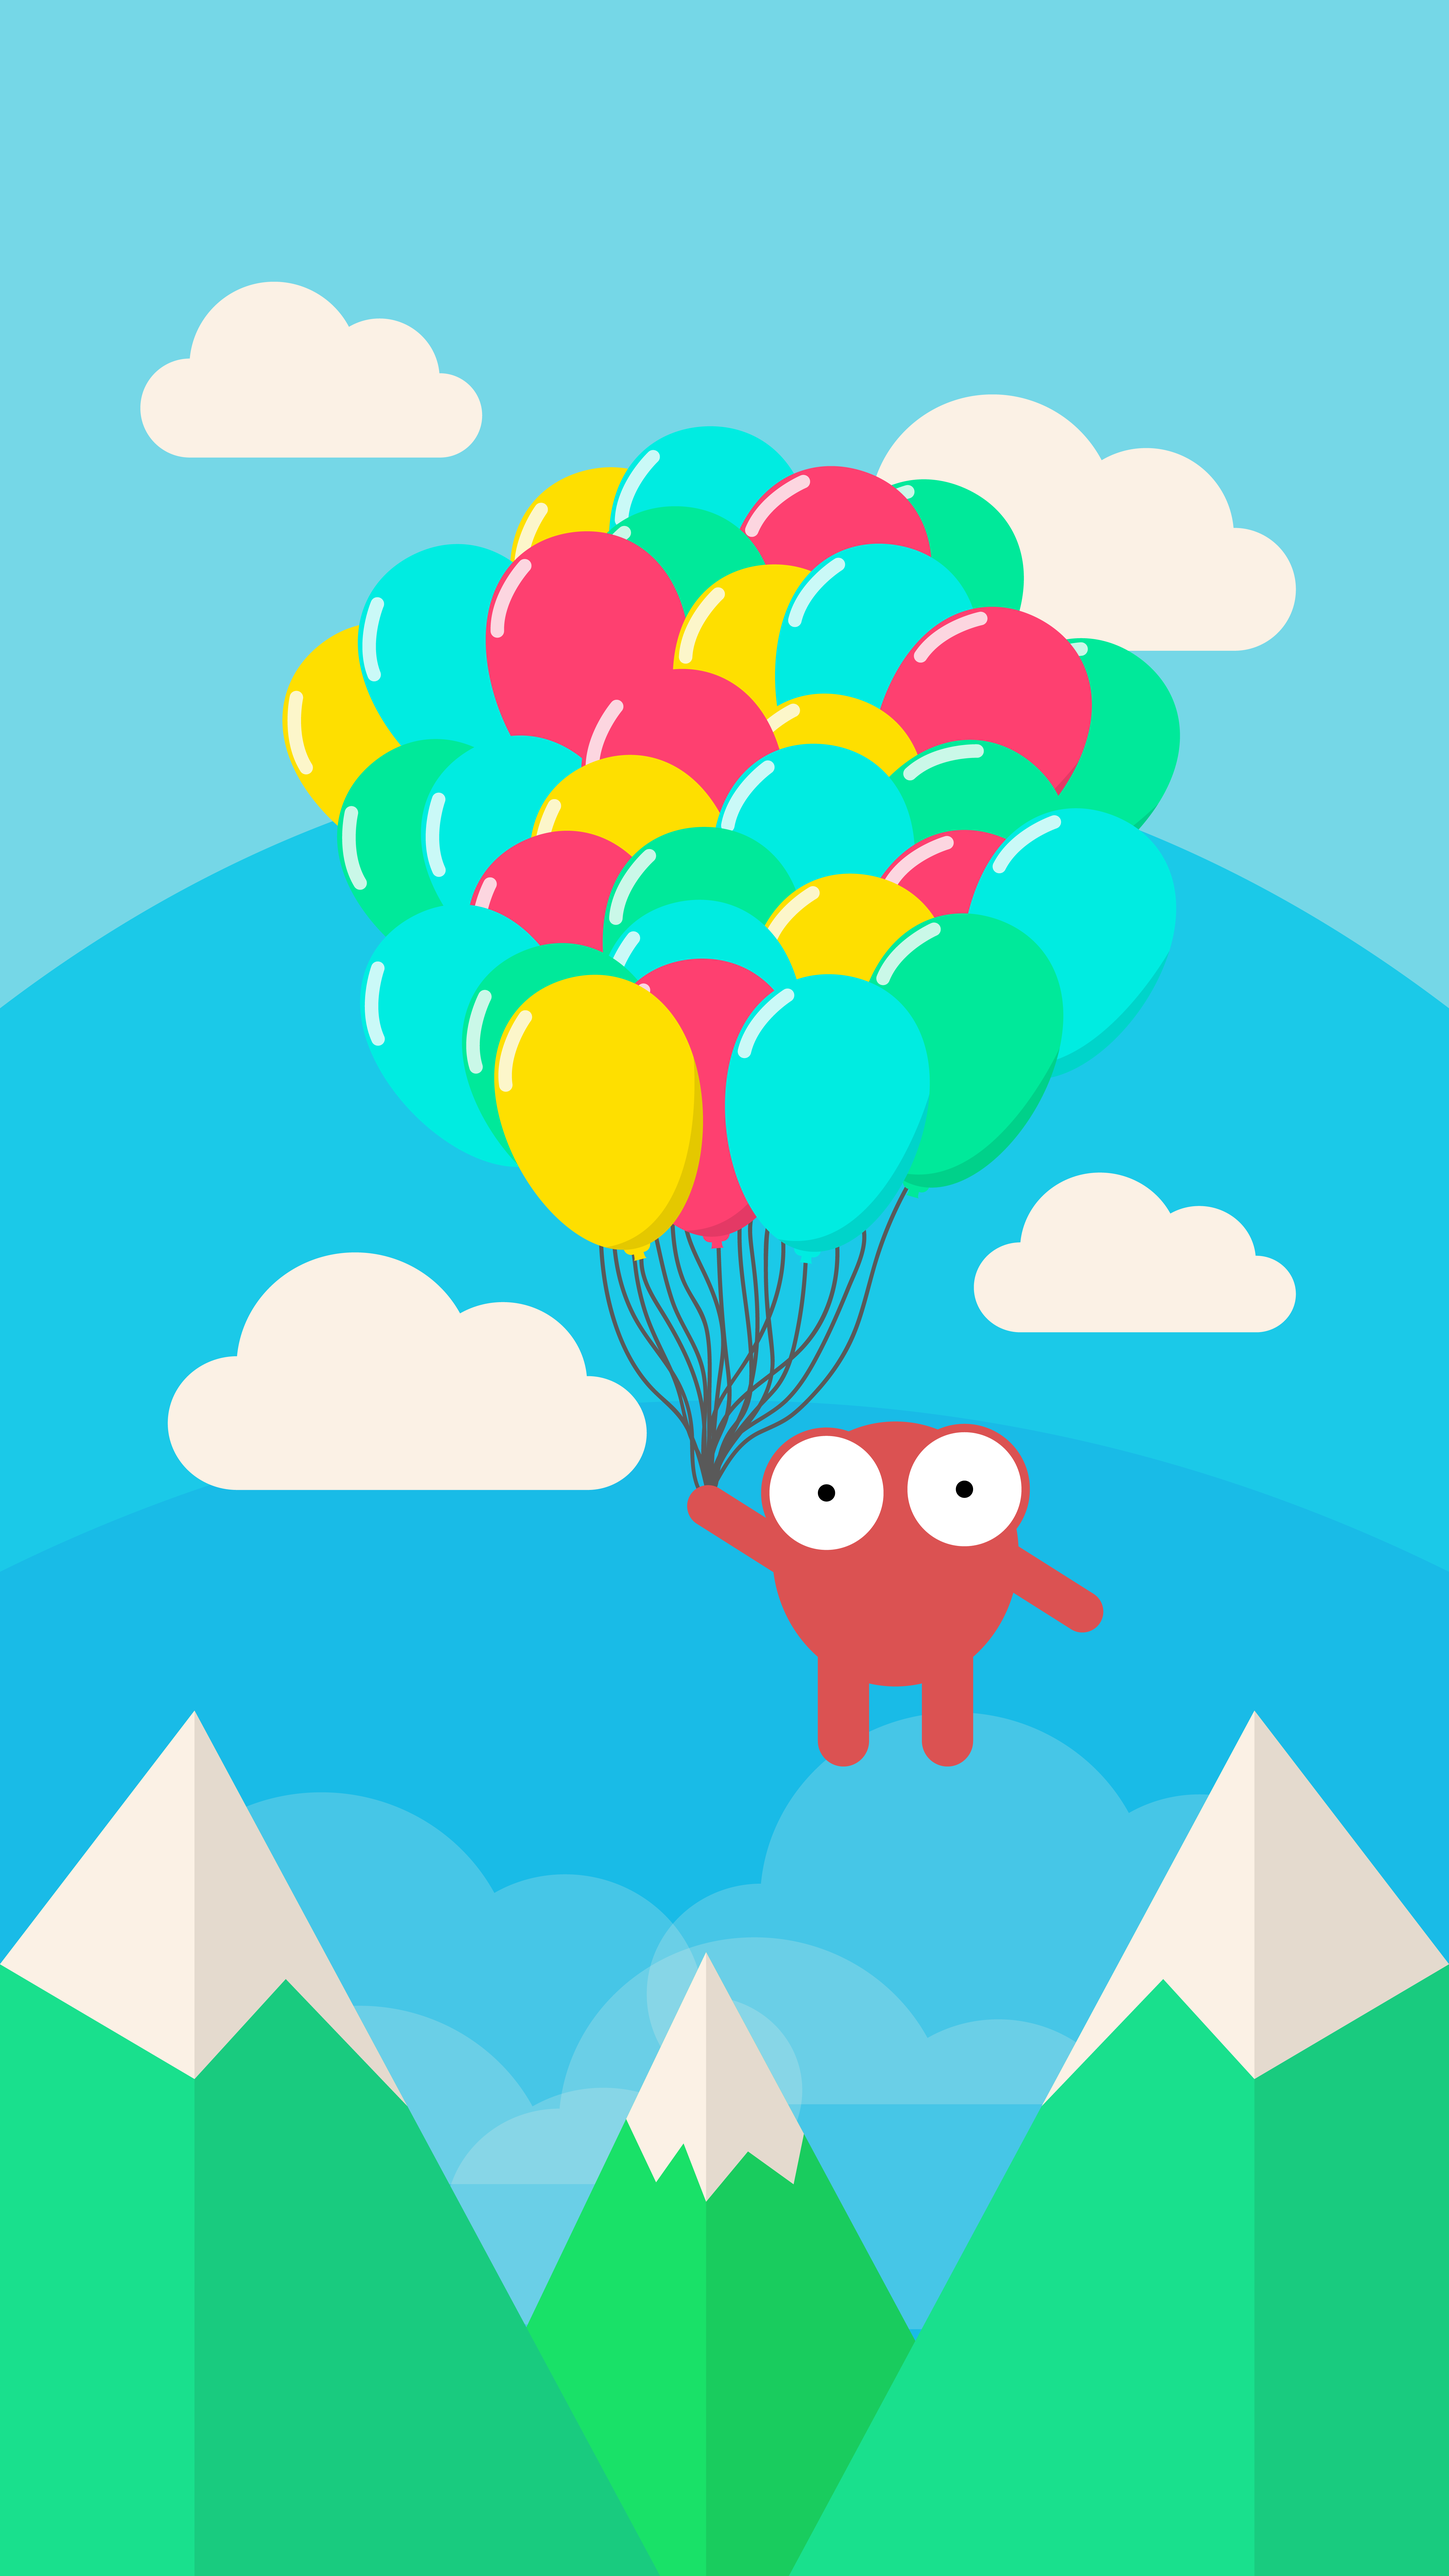
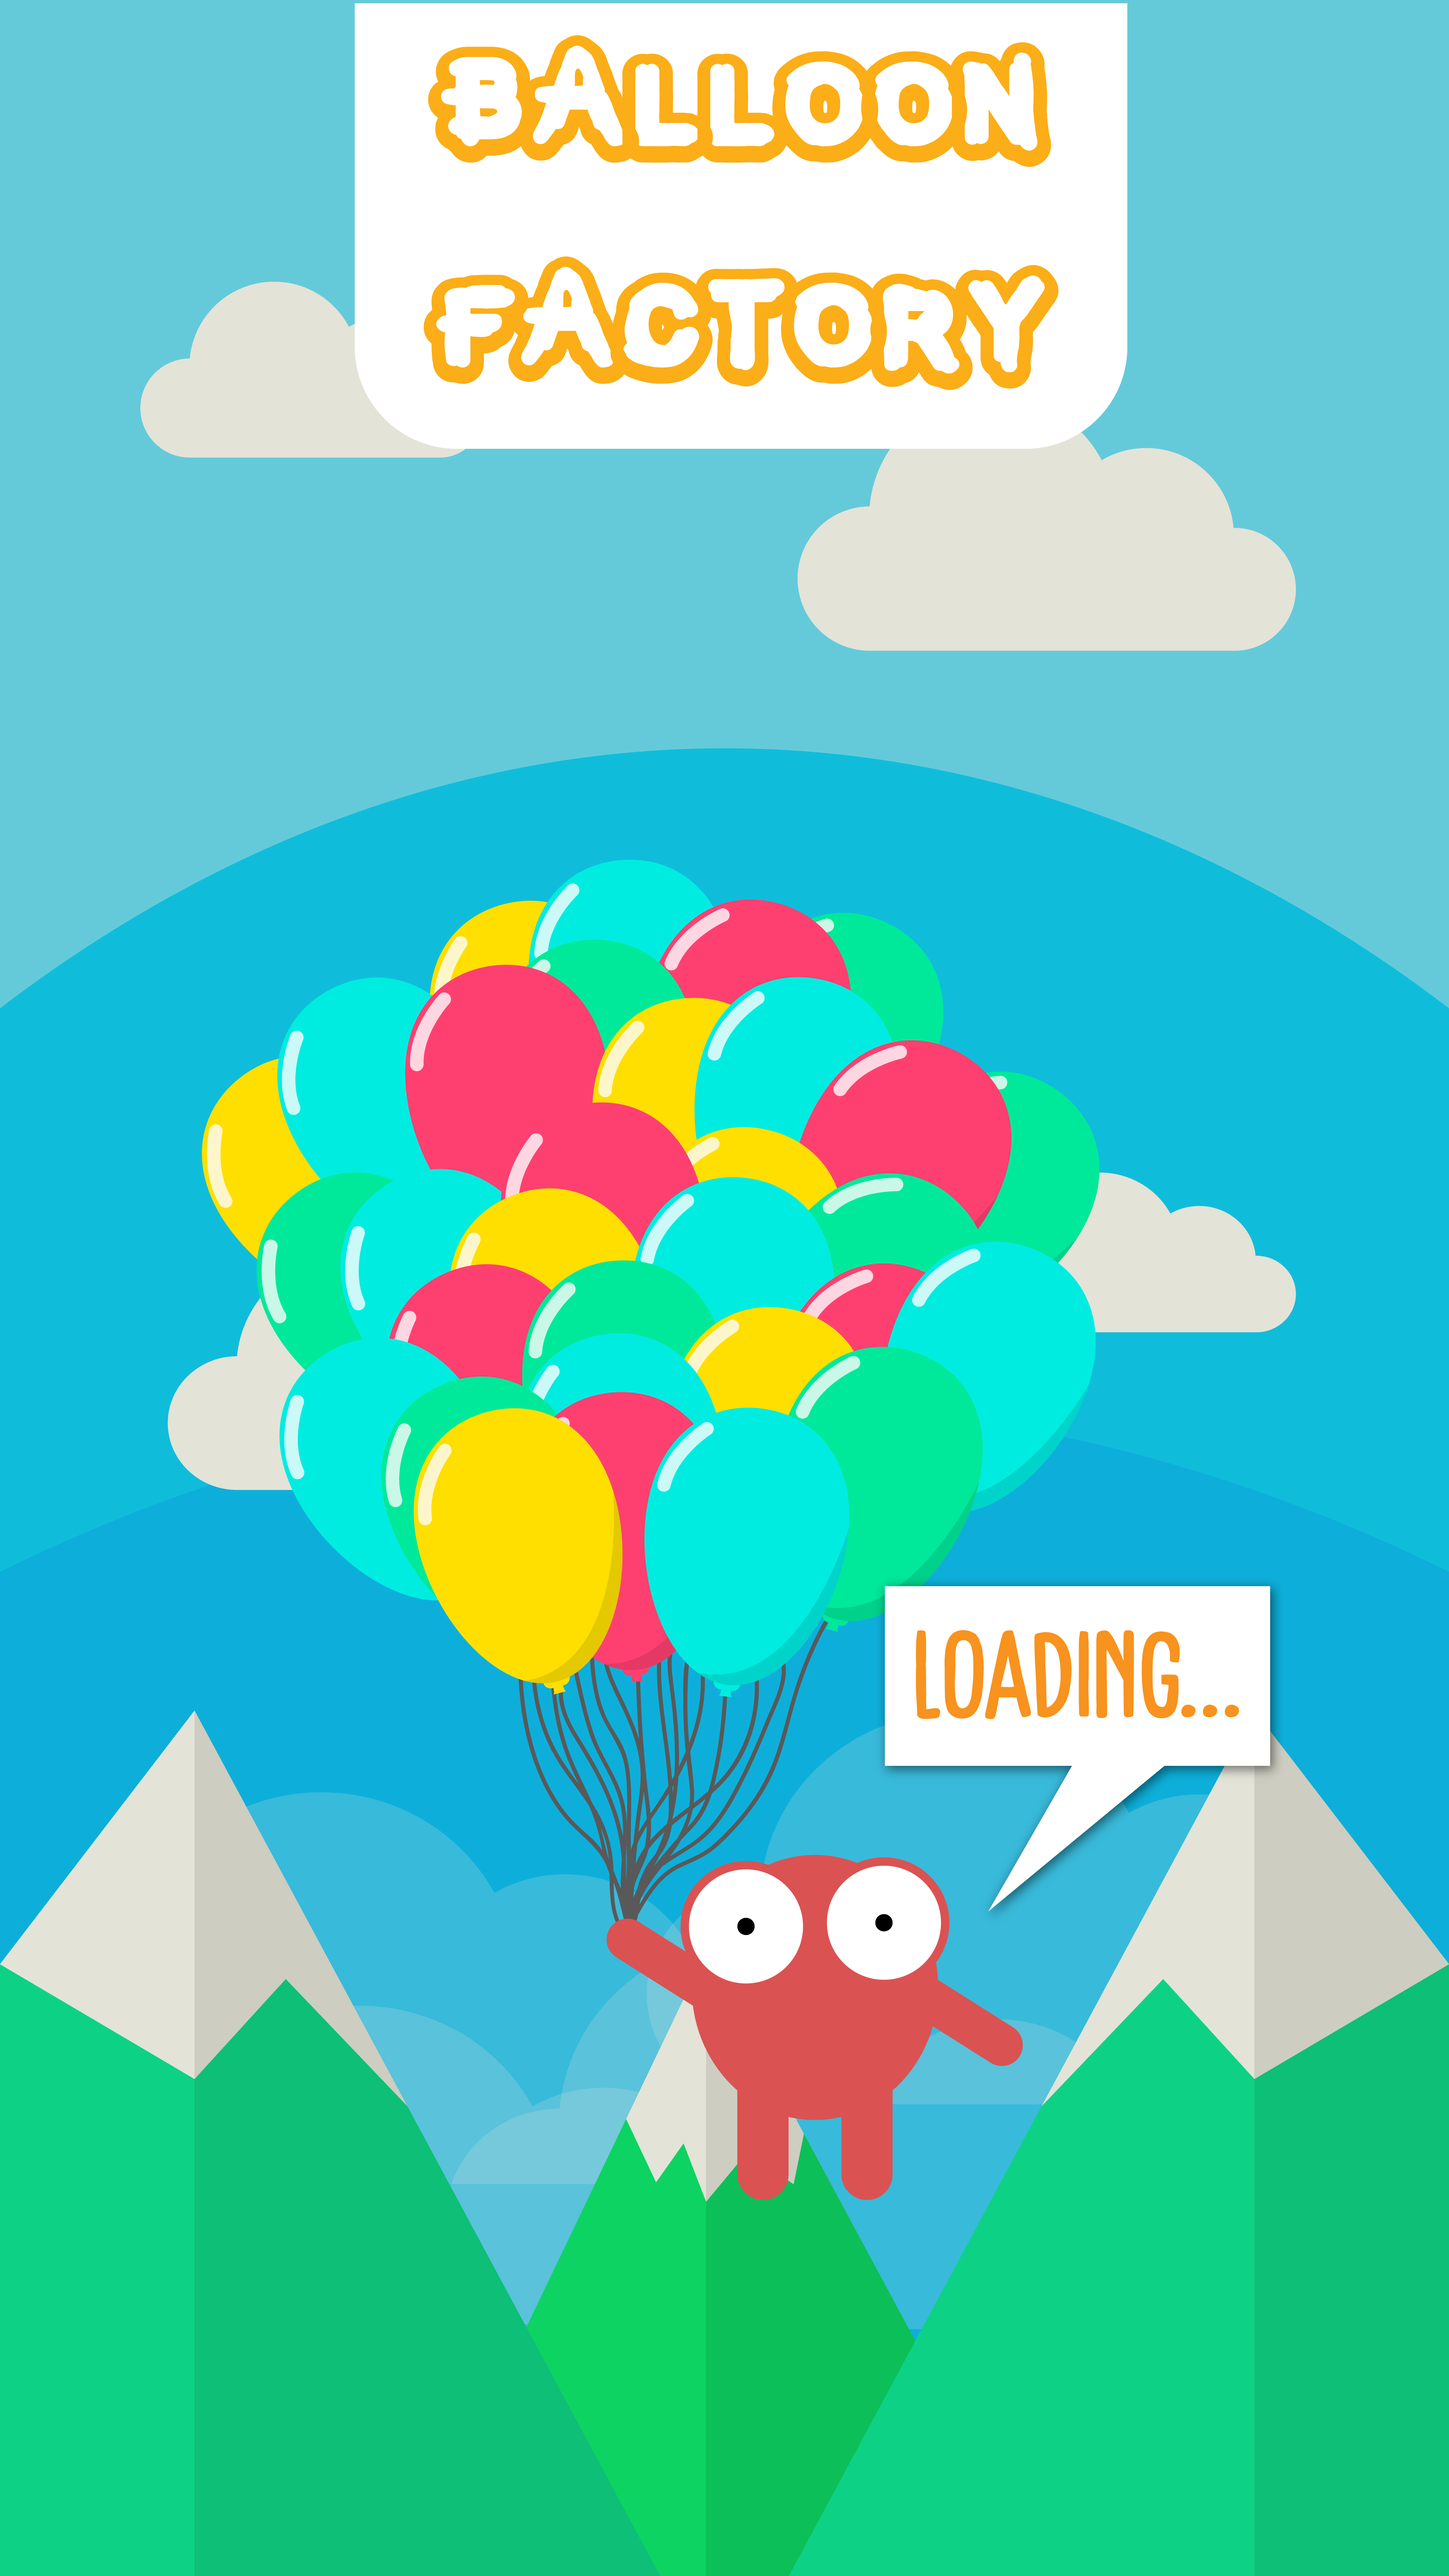
ADD new style and SIMPLE logic

diff --git a/src/scenes/GameScene.js b/src/scenes/GameScene.js
@@ -13,60 +13,35 @@ export default class GameScene extends Phaser.Scene {
         // Variables
         let balloons = 0;
         let money = 0;
-        let airCount = 0;
         let airClick = 1;
-        let balloonValue = 10;
-        let airCountProgress = 0;
-
-        // Background
-        this.background = this.add.graphics()
-            .fillStyle(0xc1f4ff, 1)
-            .fillRect(0, 0, 360, 470);
-        // Floor
-        const floor = this.add.graphics()
-            .fillStyle(0x333333, 1)
-            .fillRect(this.width / 2 - 180 , this.height / 2 + 150, 360, 170);
 
         // Display Loaded Assets
+        this.background = this.add.image(this.width / 2, this.height / 2, 'game-scene-background').setScale(0.08);
         this.balloonIcon = this.add.image(this.width / 2 - 155, this.height / 2 - 282, 'balloon').setScale(0.04);
         this.upgradesButton = this.add.image(this.width / 2 - 140, this.height / 2 + 290, 'upgrades-button').setScale(0.05);
         this.shopsButton = this.add.image(this.width / 2 -90, this.height / 2 + 290, 'shops-button').setScale(0.07);
 
-        // Air Count Box-Progress
-        // const airCountBox = this.add.graphics()
-        //     .fillStyle(0x222222, 1)
-        //     .fillRect(this.width / 2 - 160, this.height / 2 + 250, 320, 10);
-        // const airCountBar = this.add.graphics();
-
         // Air Button Animation
+        
         this.anims.create({
             key: 'pump-air',
             frameRate: 48,
             frames: this.anims.generateFrameNames('air-button', {start: 1, end: 20})
         });
+
+        const positions = [this.width / 2, this.width / 2 - 100, this.width / 2 + 100];
         
         // Air Button Logic
-        this.airButton = this.add.sprite(this.width/2, this.height/1.2, 'air-button', 0)
+        this.backgroundClick = this.add.image(this.width / 2, this.height / 2, 'background-click')
+            .setScale(0.08)
             .setInteractive()
             .on('pointerdown', () => {
-                this.airButton.play('pump-air');
-                airCountProgress += 320 / balloonValue;
-                if (airCount == balloonValue) {
-                    airCount -= balloonValue;
-                    this.updateBalloonCount(++balloons);
-                }
-                if (airCountProgress == 320 + 320 / balloonValue) {
-                    airCountProgress -= airCountProgress - 320 / balloonValue;
-                    // airCountBar.clear();
-                }
-                // airCountBar.fillStyle(0xffffff, 1);
-                // airCountBar.fillRect(this.width / 2 - 160, this.height / 2 + 250, airCountProgress, 10);
-                airCount += airClick;
+                this.updateBalloonCount(balloons += airClick);
         });
 
         this.upgradesButton.setInteractive()
             .on('pointerup', () => {
-                this.scene.start('Upgrades');
+                this.scene.switch('Upgrades');
         });
 
         this.createBalloonsTextCount();

diff --git a/src/scenes/PreloaderScene.js b/src/scenes/PreloaderScene.js
@@ -9,60 +9,33 @@ export default class PreloaderScene extends Phaser.Scene {
         const width = this.cameras.main.width;
         const height = this.cameras.main.height;
 
-        // Display Progress Bar
-        const progressBar = this.add.graphics();
+        this.add.image(width / 2, height / 2, 'background').setScale(0.08);
+
         const progressBox = this.add.graphics()
             .fillStyle(0x222222, 0.8)
-            .fillRect(width / 2 - 160, height / 1.8, 320, 30);
+            .fillRect(width / 2 - 160, height / 2 + 275, 320, 10);
 
-        // Loading Text
-        const loadingText = this.make.text({
-            x: width / 2,
-            y: height / 2,
-            text: 'Loading...',
-            style: {
-                font: '20px monospace',
-                fill: '#ffffff'
-            }
-        }).setOrigin(0.5, 0.5);
-
-        // Percent Text
-        const percentText = this.make.text({
-            x: width / 2,
-            y: height / 2 + 50,
-            text: '0%',
-            style: {
-                font: '18px monospace',
-                fill: '#ffffff'
-            }
-        }).setOrigin(0.5, 0.5);
-
+        // Display Progress Bar
+        const progressBar = this.add.graphics();
         // Update Progress Bar
         this.load.on('progress', (value) => {
-            percentText.setText(parseInt(value * 100) + '%');
             progressBar.clear()
-                       .fillStyle(0xffffff, 1)
-                       .fillRect(width / 2 - 160, height / 1.8, 320 * value, 30);
-        });
-
-        // Remove Progress Bar When Complete
-        this.load.on('complete', () => {
-            progressBar.destroy();
-            progressBox.destroy();
-            loadingText.destroy();
-            percentText.destroy();
+                       .fillStyle(0xffa500, 1)
+                       .fillRect(width / 2 - 160, height / 2 + 275, 320 * value, 10);
         });
 
         // Load Game Assets
-        this.load.image('background', 'assets/balloon-clicker-background.png');
-        this.load.spritesheet('air-button', 'assets/air-pump-one-ss.png', {frameWidth: 256, frameHeight: 256});
         this.load.image('balloon', 'assets/balloon.png');
         this.load.image('upgrades-button', 'assets/upgrades-button.png');
         this.load.image('shops-button', 'assets/shops-button.png');
+        this.load.image('close-button', 'assets/close-button.png');
+        this.load.image('game-scene-background', 'assets/balloon-clicker-game-scene.png');
+        this.load.image('background-click', 'assets/background-click.png');
+        this.load.spritesheet('air-button', 'assets/air-pump-one-ss.png', {frameWidth: 256, frameHeight: 256});
 
         // Placeholder
-        for (let i = 0; i < 2; i++) {
-            this.load.image('background' +i, 'assets/balloon-clicker-background.png');
+        for (let i = 0; i < 100; i++) {
+            this.load.image('upgrades-button' +i, 'assets/upgrades-button.png');
         }
     }
 

diff --git a/src/scenes/UpgradesScene.js b/src/scenes/UpgradesScene.js
@@ -5,10 +5,20 @@ export default class UpgradesScene extends Phaser.Scene {
         super('Upgrades');
     }
 
-    preload() {
-    }
-
     create() {
-            
+        // Dimensions
+        this.width = this.cameras.main.width;
+        this.height = this.cameras.main.height;
+
+        this.background = this.add.graphics()
+            .fillStyle(0xc1f4ff, 1)
+            .fillRect(0, 0, 360, 640);
+
+        this.closeButton = this.add.image(this.width / 2 + 150, this.height / 2 - 290, 'close-button')
+            .setScale(0.08)
+            .setInteractive()
+            .on('pointerdown', () => {
+                this.scene.switch('Game');
+            });
     }
 }

diff --git a/src/scenes/BootScene.js b/src/scenes/BootScene.js
@@ -6,15 +6,10 @@ export default class BootScene extends Phaser.Scene {
     }
 
     preload() {
-        this.load.image('start-button', 'assets/start-button.png');
+        this.load.image('background', 'assets/balloon-clicker-background.png');
     }
 
     create() {
-        this.startButton = this.add.image(360/2, 640/2, 'start-button')
-            .setInteractive()
-            .setScale(0.15)
-            .once('pointerup', () => {
-                this.scene.start('Preloader');
-            });
+        this.scene.start('Preloader');
     }
 }

diff --git a/src/index.js b/src/index.js
@@ -2,8 +2,8 @@ import 'phaser';
 import config from './config/config';
 import GameScene from './scenes/GameScene';
 import PreloaderScene from './scenes/PreloaderScene';
-import BootScene from './scenes/BootScene';
 import UpgradesScene from './scenes/UpgradesScene';
+import BootScene from './scenes/BootScene';
 
 class Game extends Phaser.Game {
     constructor() {
